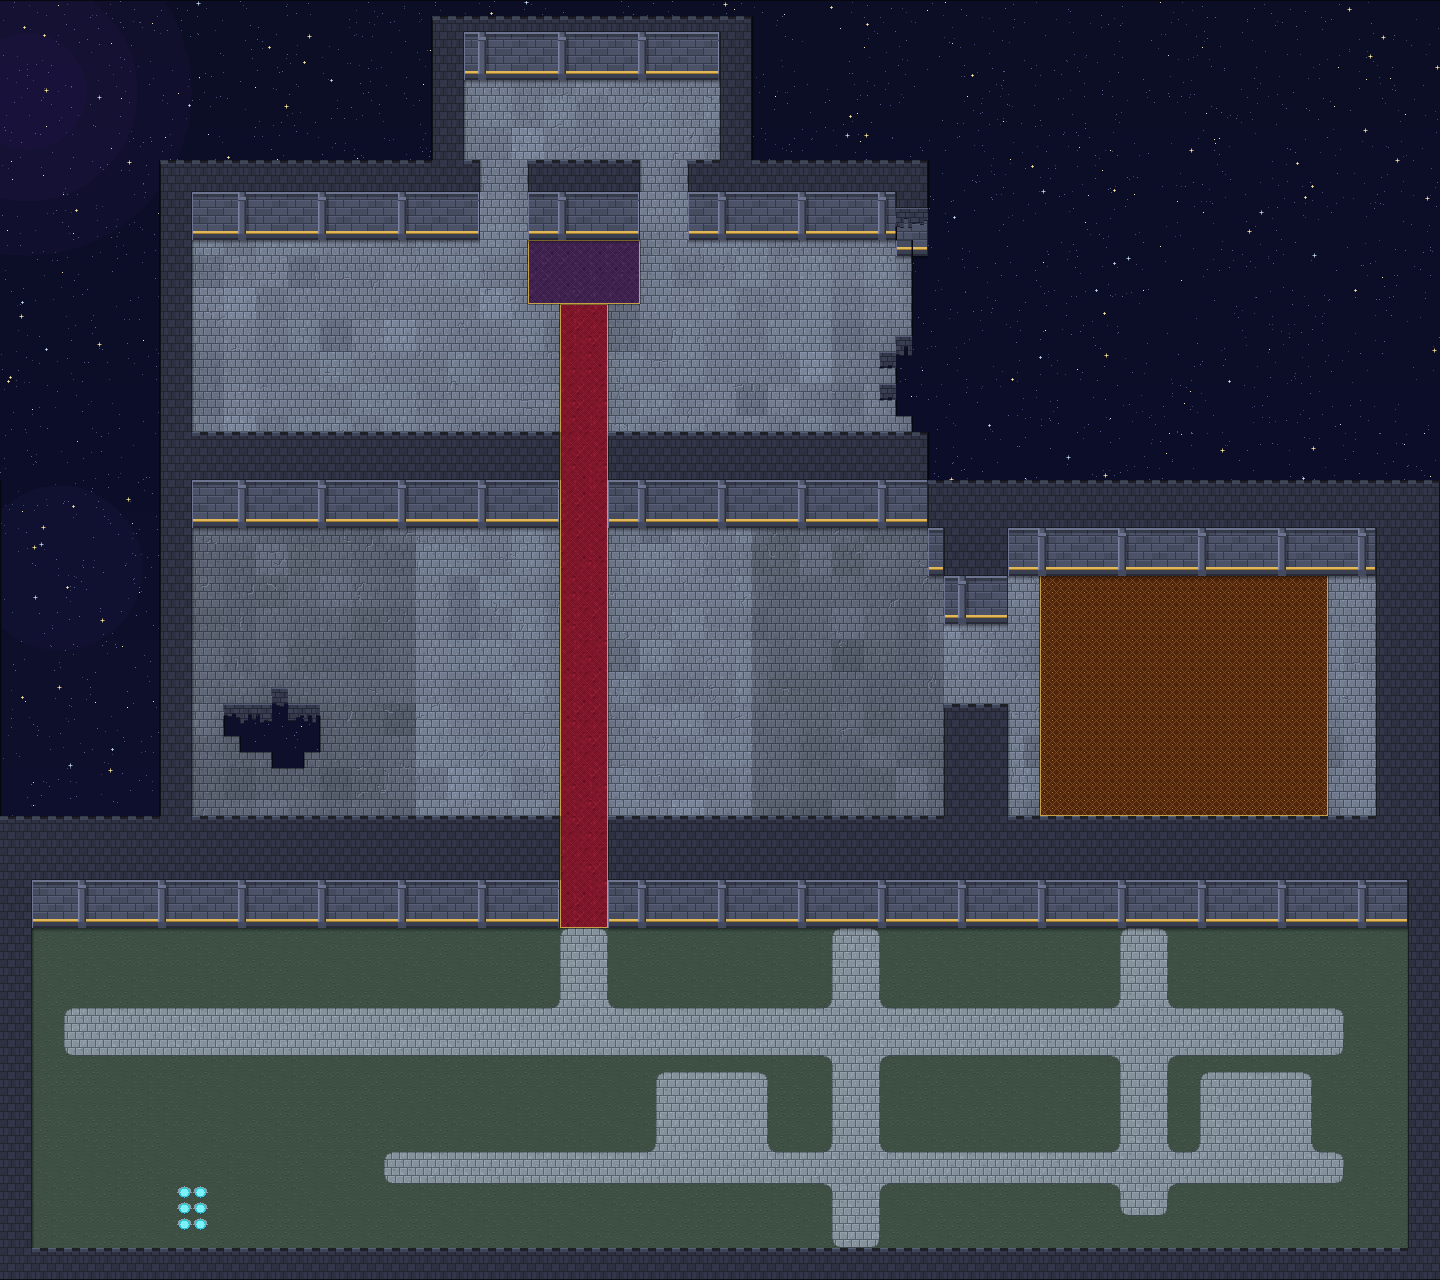
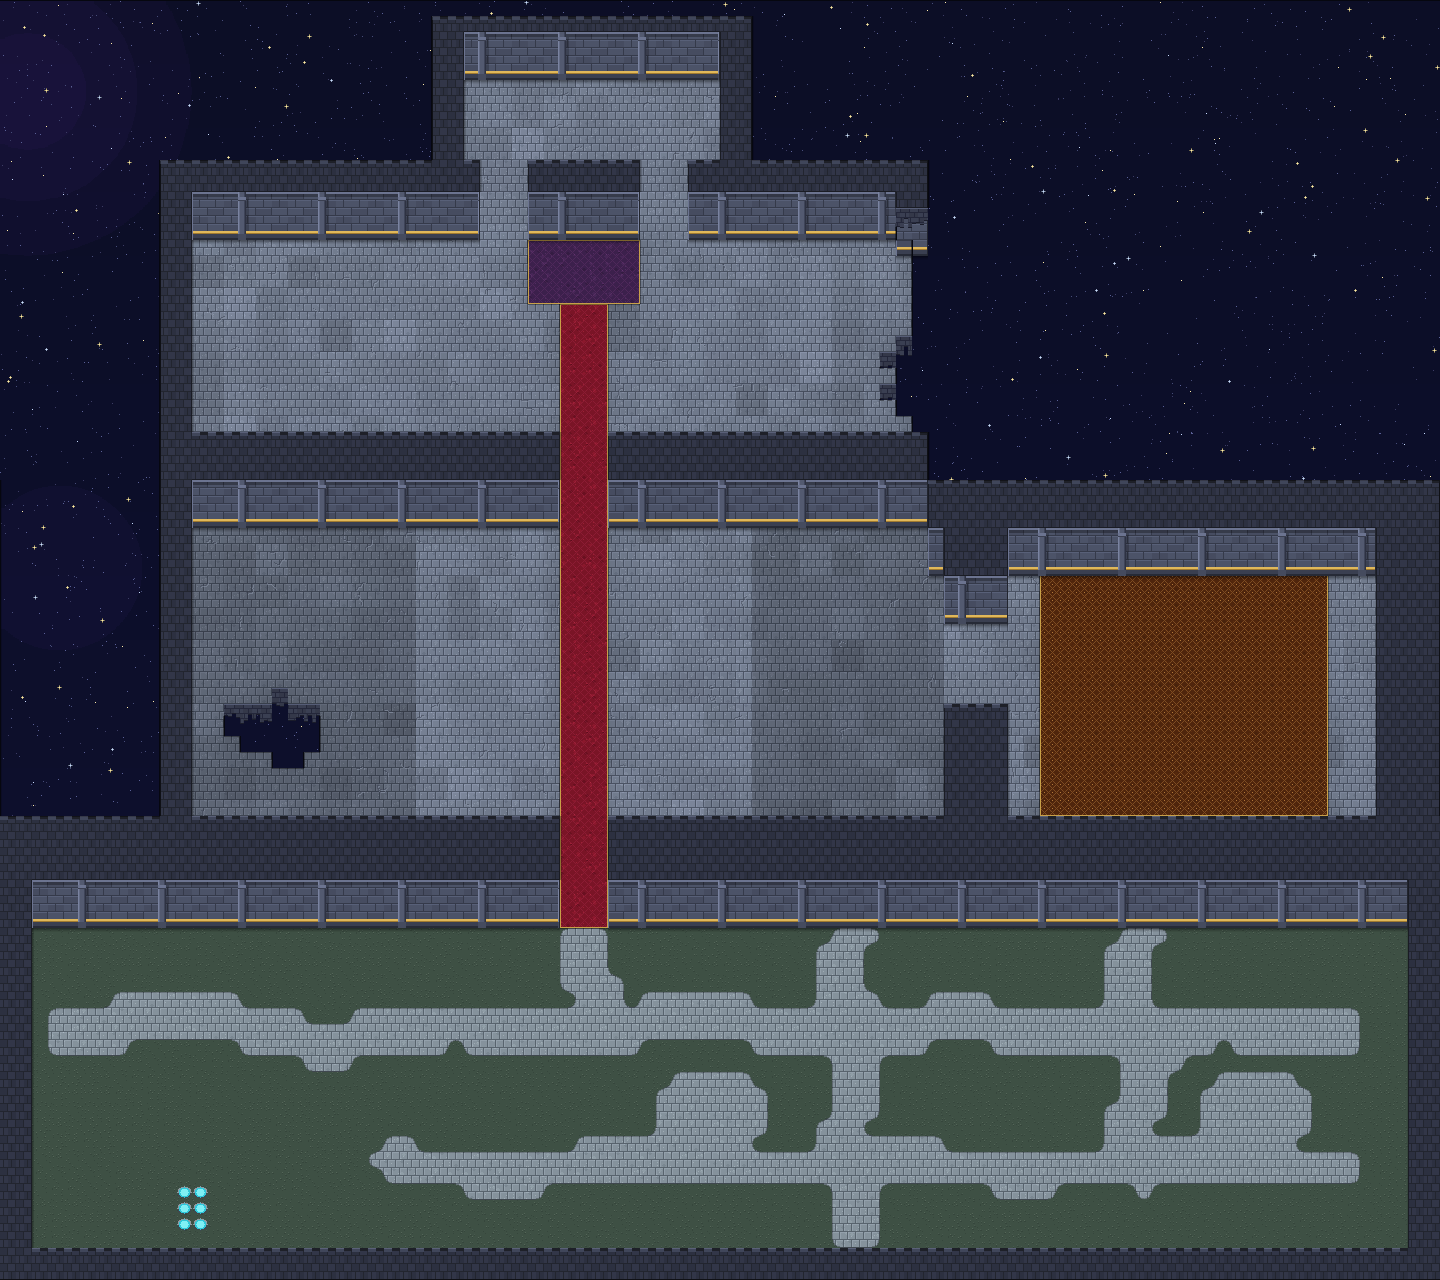
K32: Friedhofswege geschwungen (Regel 6/6b), runde Brunnenplaetze, Objekte nicht auf Wegen
Claude-Session: https://claude.ai/code/session_01SaoYHKhnro4LFcPJqjaPsq

diff --git a/tools/karte32_layout.py b/tools/karte32_layout.py
@@ -23,6 +23,37 @@ T, C, R = 16, 90, 80
 WAND = 3                                       # Wandflaeche 3 Kacheln hoch (wie Karte 09)
 
 
+WEGE = [  # (Stuetzpunkte in Kacheln, halbe Breite) -> Catmull-Rom-Kurven auf dem Friedhof
+    ([(36.5, 57.6), (36.2, 60), (37.4, 62.4), (36.0, 64.6)], 1.5),                              # vom Durchgang
+    ([(4.5, 64.6), (12, 63.5), (20, 65.1), (28, 64.0), (36, 64.6), (44, 63.6), (52, 64.8), (60, 63.8),
+      (68, 65.0), (76, 64.0), (83.5, 64.6)], 1.5),                                               # Hauptweg
+    ([(53.5, 57.6), (52.6, 61), (54.0, 66), (52.8, 71), (53.5, 77.6)], 1.5),                     # Mitte senkrecht
+    ([(71.5, 57.6), (70.6, 61), (72.0, 66.5), (70.8, 70.5), (71.5, 73)], 1.5),                   # rechts senkrecht
+    ([(24.5, 72.6), (32, 73.4), (40, 72.3), (48, 73.2), (56, 72.4), (64, 73.4), (72, 72.6), (83.5, 73.0)], 1.25),
+    ([(43.8, 69.5), (45.2, 69.5)], 2.7), ([(44.5, 70.5), (45.0, 72.6)], 1.3),                  # Brunnenplatz links
+    ([(77.8, 69.5), (79.2, 69.5)], 2.7), ([(78.5, 70.5), (78.0, 72.6)], 1.3),                  # Brunnenplatz rechts
+]
+
+
+def _kurve(pts, n=24):
+    p = [pts[0]] + list(pts) + [pts[-1]]
+    out = []
+    for i in range(1, len(p) - 2):
+        p0, p1, p2, p3 = (np.array(q, float) for q in p[i - 1:i + 3])
+        for t in np.linspace(0, 1, n, endpoint=False):
+            out.append(0.5 * ((2 * p1) + (-p0 + p2) * t + (2 * p0 - 5 * p1 + 4 * p2 - p3) * t * t
+                              + (-p0 + 3 * p1 - 3 * p2 + p3) * t ** 3))
+    out.append(np.array(pts[-1], float))
+    return np.array(out)
+
+
+def _weg(k, pts, r, erlaubt):
+    c = _kurve(pts)
+    yy, xx = np.mgrid[0:R, 0:C]
+    d = np.min([(xx + 0.5 - px) ** 2 + (yy + 0.5 - py) ** 2 for px, py in c], axis=0)
+    k[(d <= r * r) & erlaubt & (k == 'g')] = 'p'
+
+
 def r_(m, x0, y0, x1, y1, v=True):
     m[y0:y1 + 1, x0:x1 + 1] = v
 
@@ -66,10 +97,10 @@ def main():
     r_(k, 35, 51, 37, 57, 'c')
     r_(k, 2, 58, 87, 77, 'g')
     r_(mauer, 0, 51, 1, 79); r_(mauer, 88, 51, 89, 79); r_(mauer, 0, 78, 89, 79)
-    # Pflasterwege nach der Vorlage
-    for (x0, y0, x1, y1) in ((4, 63, 83, 65), (24, 72, 83, 73), (35, 58, 37, 65), (52, 58, 54, 77),
-                             (70, 58, 72, 75), (41, 67, 47, 71), (75, 67, 81, 71)):
-        r_(k, x0, y0, x1, y1, 'p')
+    # Pflasterwege nach der Vorlage, aber geschwungen (Regel 6: nie nur gerade; Kanten 45 Grad beim Bauen, 6b)
+    friedhof = np.zeros((R, C), bool); friedhof[58:78, 2:88] = True
+    for pts, rad in WEGE:
+        _weg(k, pts, rad, friedhof)
     # ---------------------------------------------------------------- Mauerkoerper -> Krone + Wandflaeche
     h = np.zeros((R, C), int)
     h[k != '.'] = 1

diff --git a/tools/karte32_objekte.py b/tools/karte32_objekte.py
@@ -63,6 +63,8 @@ def main():
             y0_, x0_ = max(0, fy - 3), max(0, cx - bw // 3)
             if (lvl[y0_:fy + 1, x0_:cx + bw // 3 + 1] != 1).any():   # Fuss nur auf Boden (keine Mauer, Leere, Wand)
                 return None
+            if any(kl[fy // T][xx // T] == 'p' for xx in (cx - bw // 3, cx, cx + bw // 3)):   # nicht auf Wegen
+                return None
         o = {'datei': datei, 'basis': name, 'x': cx - (bb[0] + bw // 2), 'y': fy - (bb[3] - 1), 'fuss': bb[3] - 1,
              'kachel': [cx // T, fy // T], 'ebene': 1}
         o.update(opt or {})
@@ -163,13 +165,15 @@ def main():
             setze(K9 + 'wand/19', x * T + 16, fuss(61), {}, raster=False)
     for (x0, x1) in ((26, 34), (56, 68)):                            # eingezaeunte Grabfelder
         for x in range(x0, x1 + 1, 2):
+            if any(kl[y][xx] == 'p' for y in range(66, 70) for xx in (x, x + 1)):
+                continue                                              # Grabfeld nicht auf dem Weg
             setze(K9 + 'wand/19', x * T + 16, fuss(66), {}, raster=False, pruefen=False)
             setze(K9 + rnd.choice(GRAEBER), x * T + 8, fuss(68), {}, pruefen=False)
             setze(K9 + 'wand/19', x * T + 16, fuss(69), {}, raster=False, pruefen=False)
     for (x, y) in ((34, 61), (38, 61), (51, 61), (55, 61), (69, 61), (73, 61), (25, 68), (35, 68), (55, 68), (69, 68)):
         setze(K9 + 'wand/31', x * T + 8, fuss(y))                    # kleine Wasserspeier-Statuen an den Wegen
-    setze(K9 + 'turm/09', 44.5 * T, fuss(70), {}, raster=False)      # Brunnen auf den Plaetzen (Platzmitte)
-    setze(K9 + 'turm/09', 78.5 * T, fuss(70), {}, raster=False)
+    setze(K9 + 'turm/09', 44.5 * T, fuss(70), {}, raster=False, pruefen=False)   # Brunnen mitten auf den Plaetzen
+    setze(K9 + 'turm/09', 78.5 * T, fuss(70), {}, raster=False, pruefen=False)
     for (n, x) in (('turm/04', 29), ('turm/08', 47), ('turm/04', 62), ('turm/08', 81)):
         setze(K9 + n, x * T + 8, fuss(77), {})                        # Gruefte unten
     for (x, y) in ((25, 61), (23, 69), (40, 77), (56, 77), (69, 76), (75, 77)):
